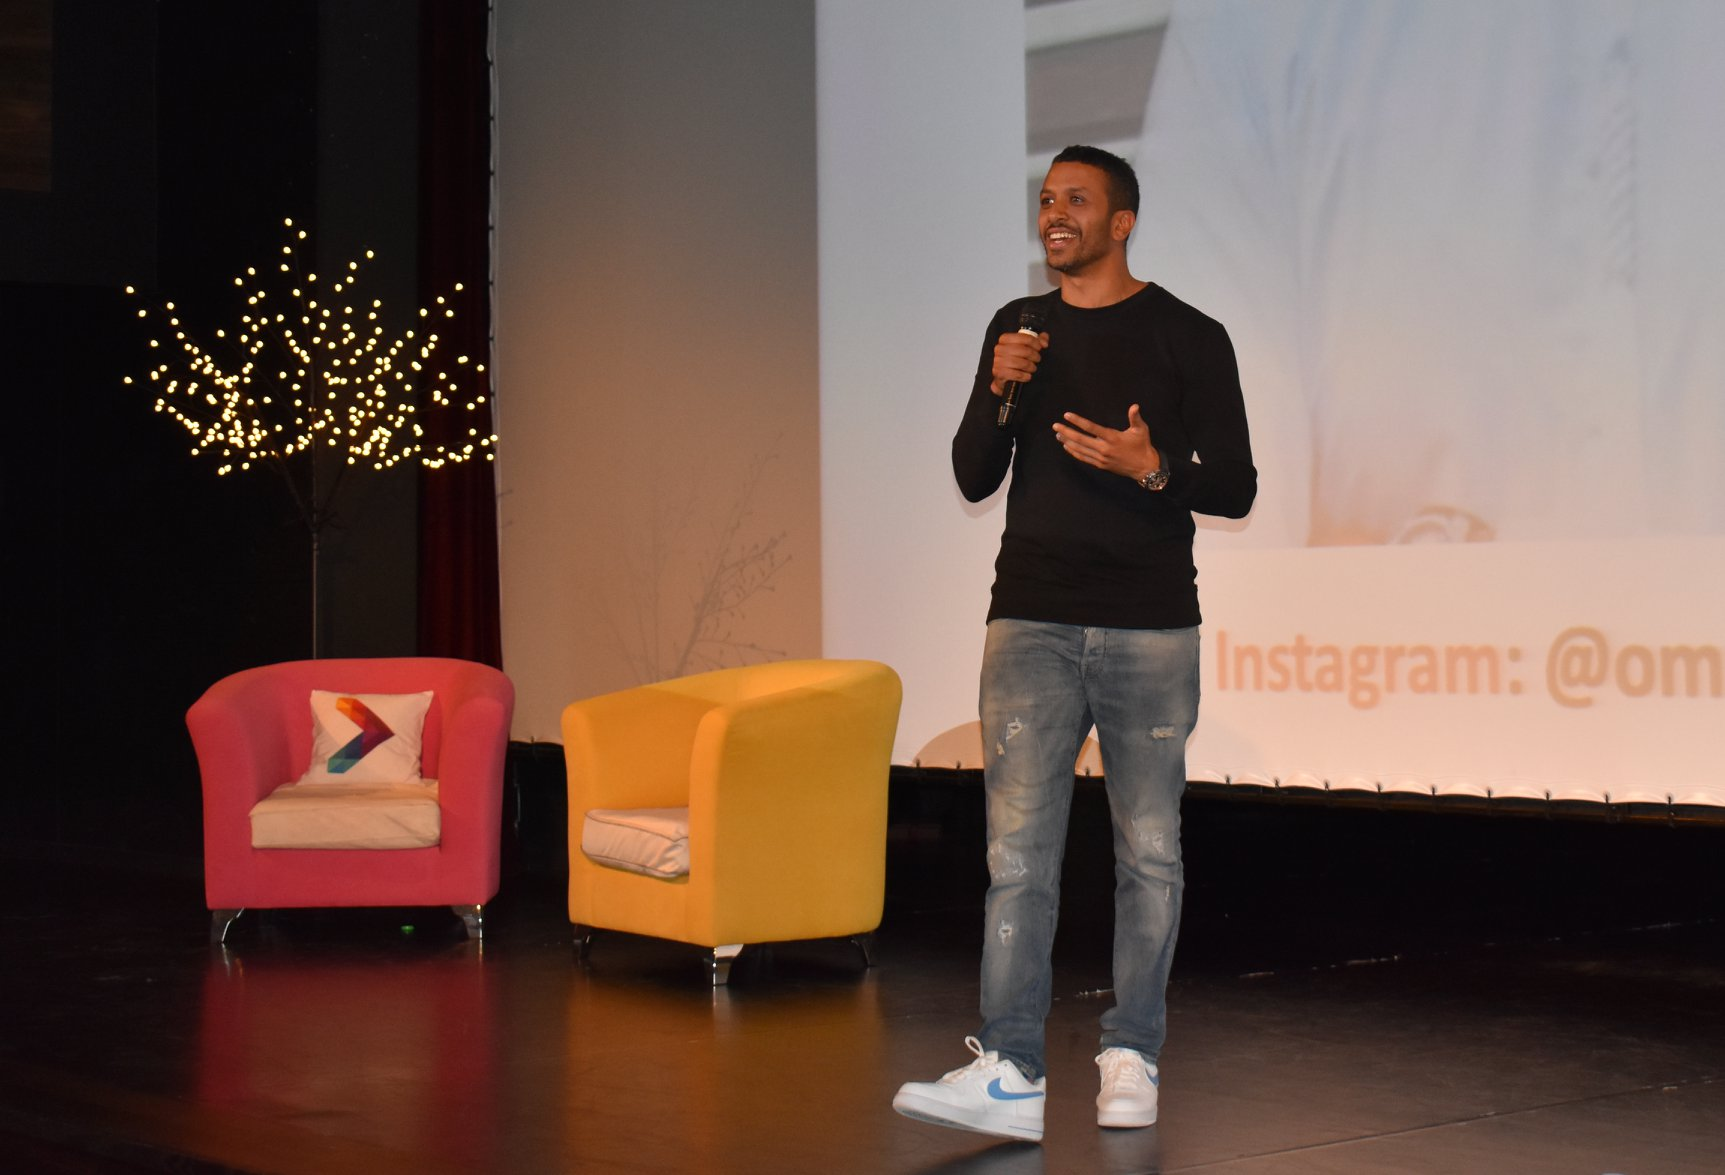
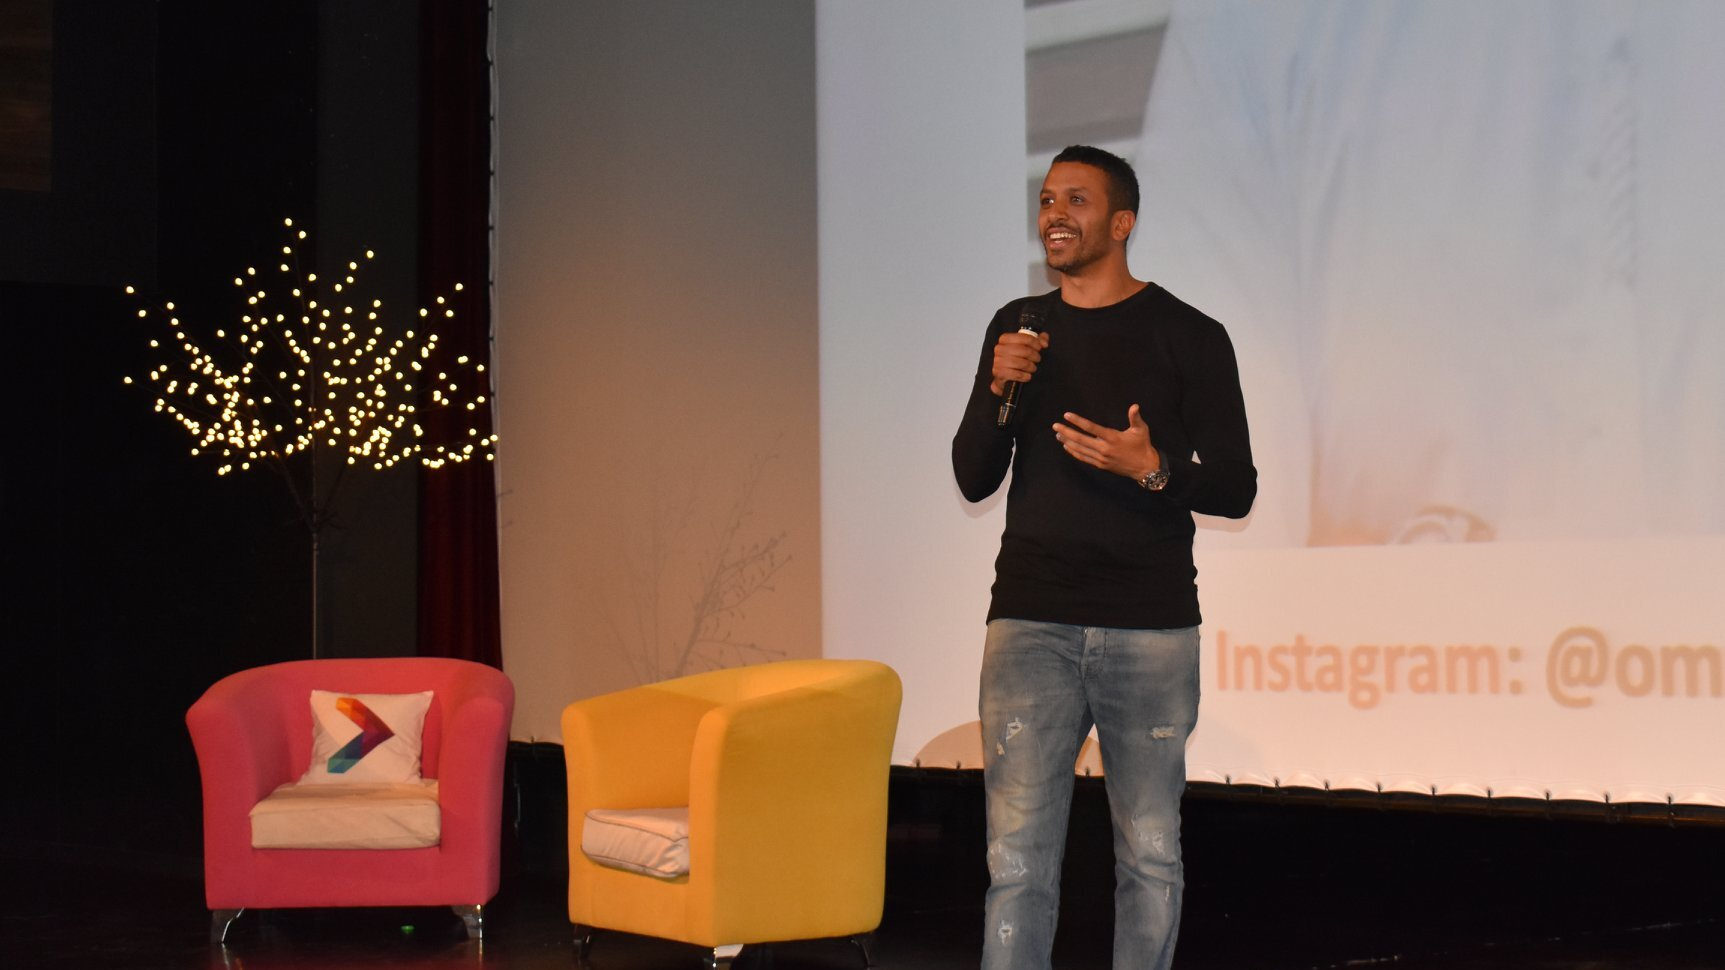
fixed masthead image

diff --git a/src/components/Masthead.js b/src/components/Masthead.js
@@ -7,7 +7,7 @@ import { Link } from "react-scroll";
 export default function Masthead() {
     return (
         <div className="masthead">
-        <div className="masthead container" style={{height:"100vh"}}>
+        <div className="container" style={{height:"100vh"}}>
           <div className="row h-100 align-items-center">
             <div className="col text-center title-wrapper">
               <h1 className="masthead-title">

diff --git a/src/components/styles/Masthead.css b/src/components/styles/Masthead.css
@@ -4,6 +4,7 @@
     background-size: cover;
 	background-position: center;
     background-repeat: no-repeat;
+    background-attachment: fixed;
     color:white;
 }
 /* for the original layover design
